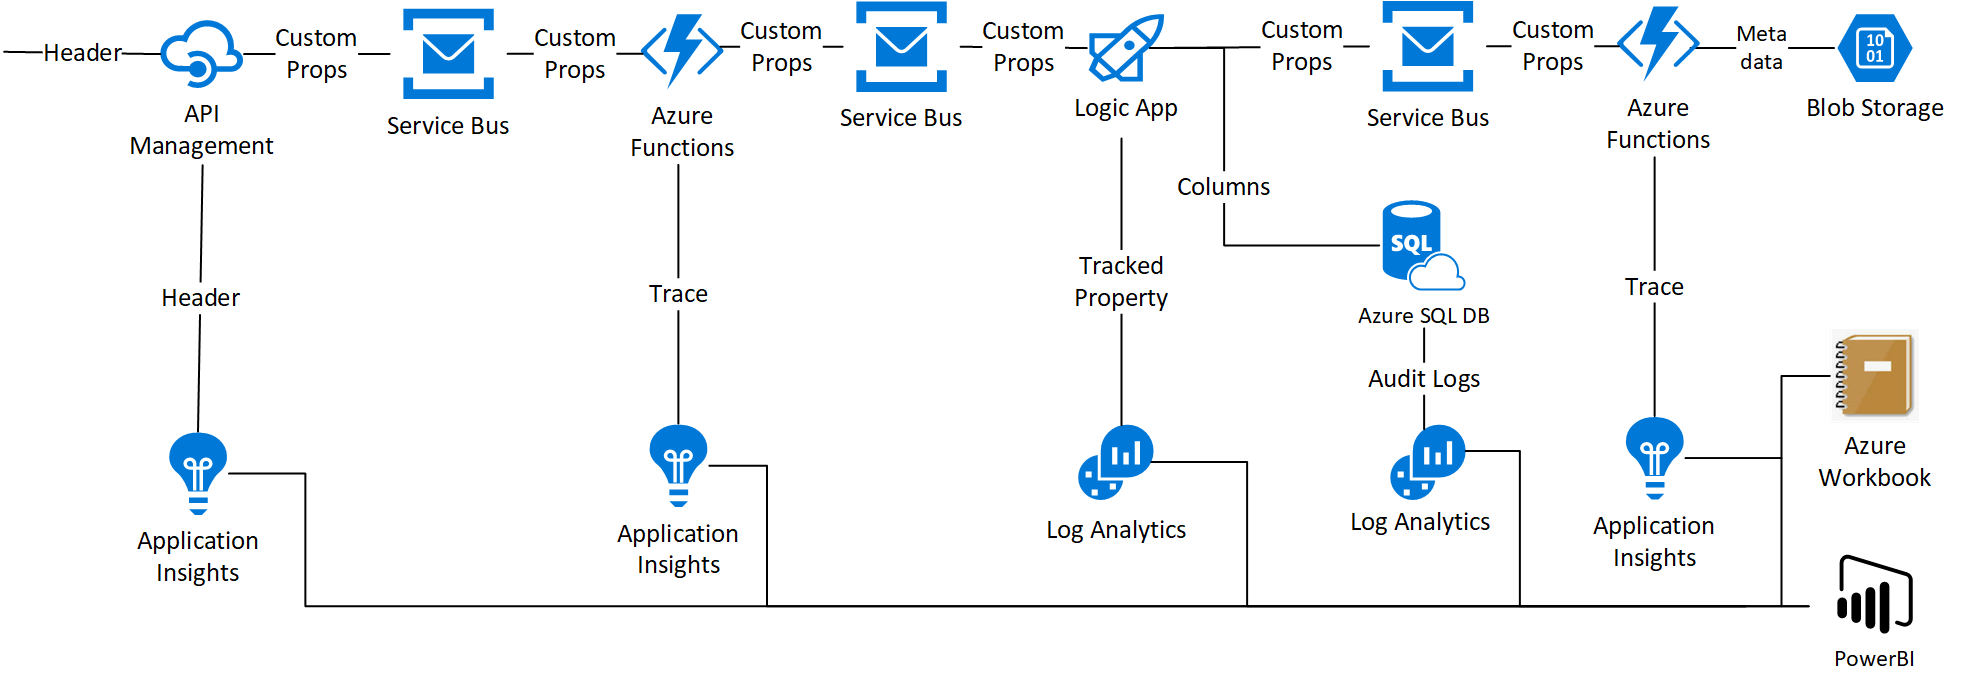
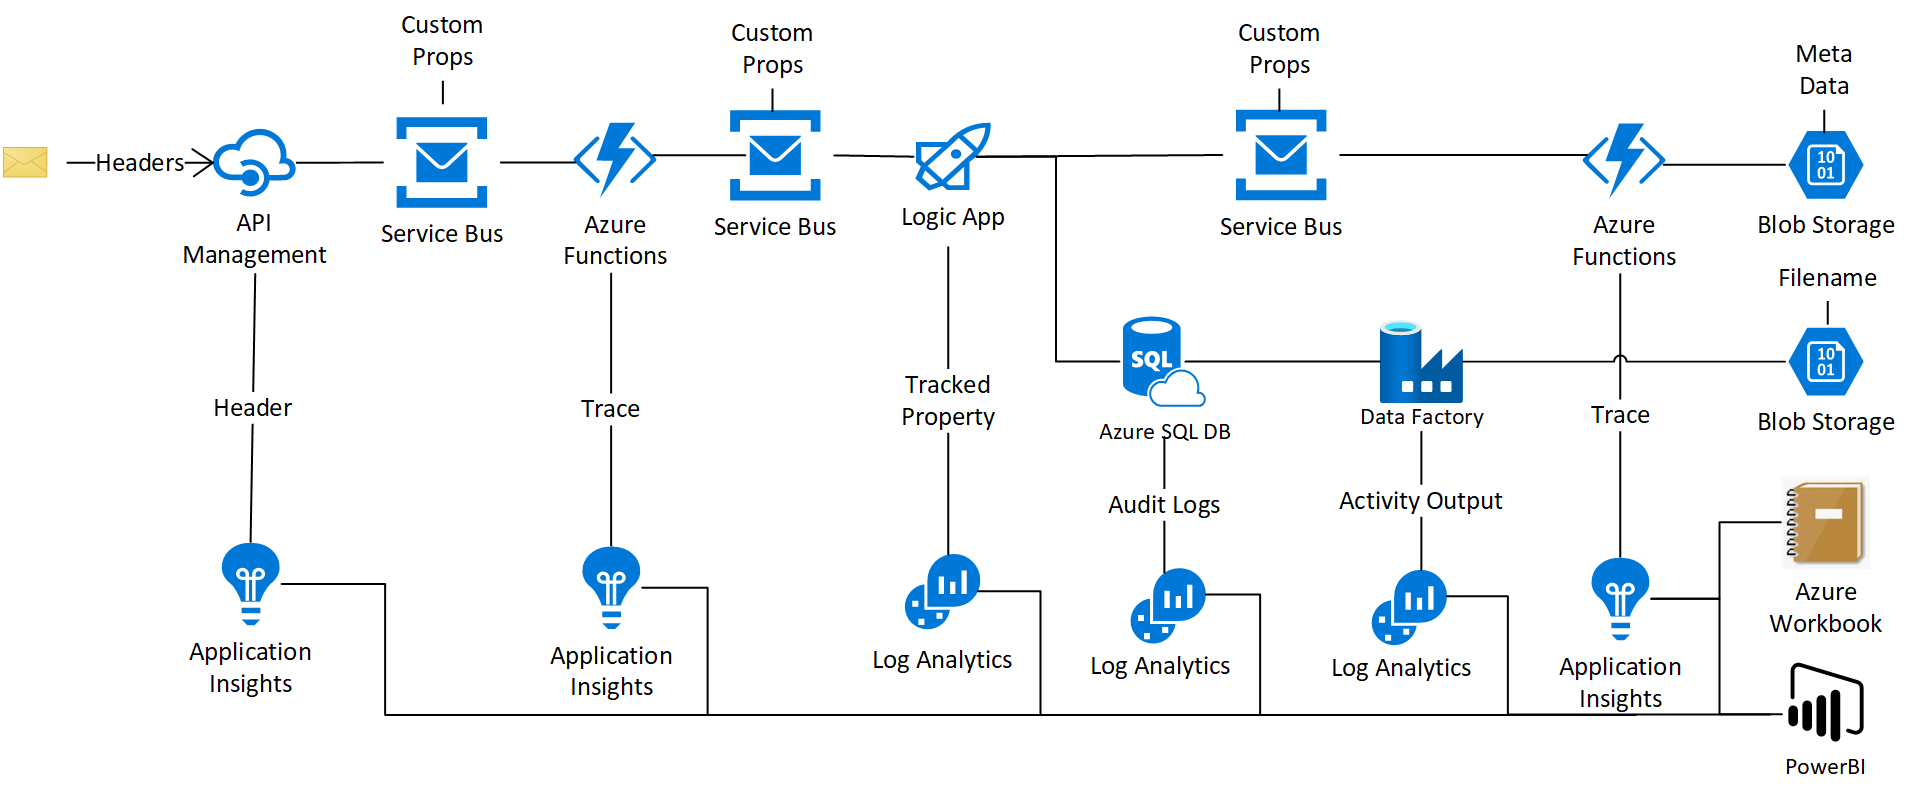
Updated Architecture

diff --git a/README.md b/README.md
@@ -92,6 +92,7 @@ CREATE TABLE Batches
   batchItem int,  
   batchTotal int,
   message text,
+  ProcessedByADF BIT default 'FALSE',
   CONSTRAINT batch_id_pk PRIMARY KEY (batch_db_id)
 );
 ``` 
@@ -262,3 +263,7 @@ https://docs.microsoft.com/en-us/azure/data-factory/copy-activity-preserve-metad
 https://knowledgeimmersion.wordpress.com/2020/02/26/custom-log-analytics-for-azure-data-factory/<br />
 https://github.com/Azure/azure-sdk-for-python/issues/12050<br />
 https://docs.microsoft.com/en-us/azure/azure-sql/database/auditing-overview <br />
+https://feedback.azure.com/forums/270578-data-factory/suggestions/33983473-copy-blob-with-properties-and-metadata <br />
+https://docs.microsoft.com/en-us/azure/data-factory/monitor-using-azure-monitor <br />
+https://docs.microsoft.com/en-us/azure/data-factory/tutorial-hybrid-copy-portal <br />
+https://feedback.azure.com/forums/270578-data-factory/suggestions/36163726-append-replace-upsert-the-outgoing-data-from-copy <br />
